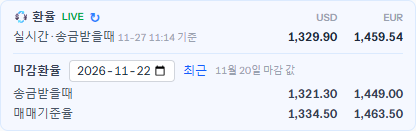
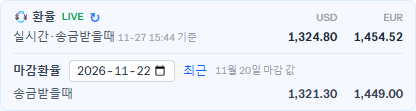
docs(guide): 환율 — 송금받을때 기준(매매기준율 줄 없음)·구매확정 환율 칸 자동 기입(그림 3장) + 챗봇 카드

diff --git a/resources/guides/purchase-confirm/index.html b/resources/guides/purchase-confirm/index.html
@@ -1,7 +1,7 @@
 <!-- 구매확정 — 로컬 가이드 차 11가1001(김영업)로 실제로 확정해 로컬 ERP 에 차량이 생기기까지 찍었다(2026-11-13).
      딜러 서류는 「업무 가이드 예시」라고 적은 가짜 통장 사본·사업자등록증·명함 그림, 바이어는 로컬 ERP 의 「GUIDE SAMPLE TRADING」.
      금액·환율은 예시. 정보 찾기는 실제 GPU PC 가 읽은 결과다.
-     11-27 — 환율 상자(11·12번 그림). 마감환율 숫자는 로컬 예시 값이다. -->
+     11-27 — 환율 상자(11·12번 그림, 송금받을때 기준)·환율 칸 자동 기입(13번 그림). 마감환율 숫자는 로컬 예시 값이다. -->
 
 <p style="margin:0 0 14px;color:#4b5563;line-height:1.65">
     바이어가 수락한 차를 실제로 사는 단계입니다. 「경매/구매」에서 금액·바이어·딜러 서류·입금정보를 넣고 [구매확정 · ERP 전송]을 누르면 차가 ERP 재고로 넘어갑니다. 한 번에 다 못 채웠으면 [내용만 저장]으로 적은 것만 남겨 두고 나중에 이어서 합니다.
@@ -25,19 +25,25 @@
         <li>「매도비 (원)」 — 그 가운데 딜러 몫. 적으면 바로 아래 「최종 매입가」가 차값에서 매도비를 뺀 값으로 바뀝니다. 없으면 비워 둡니다.</li>
         <li>「총판매가」 — 바이어에게 받을 총액(운임 포함), 「견적 통화」 기준.</li>
         <li>「운임비 (USD)」 — 운임은 달러로 적습니다.</li>
-        <li>「환율 USD」「환율 EUR」 — 직접 적습니다. 화면 위 「환율」 상자의 값을 보고 넣고, 판매 통화가 유로면 EUR 칸도 채웁니다.</li>
+        <li>「환율 USD」「환율 EUR」 — 창을 열면 지금 환율(송금받을때)이 들어와 있습니다. 바이어와 합의한 환율이 다르면 고쳐 적습니다.</li>
     </ul>
     <p>「운임비 (자동)」과 「판매가 (자동)」은 계산돼 나옵니다(판매가 = 총판매가 − 운임비). 아래 「이상 총판매가」는 참고용입니다.</p>
     <img src="02.png" alt="금액 칸 — 차값, 매도비, 총판매가, 운임비, 환율과 자동 계산된 판매가" width="440">
+    <p><strong>환율 칸은 비어 있을 때만 자동으로 채워집니다.</strong> 칸 아래에 「오늘 환율(○○ 기준, 송금 받을 때)을 넣어 두었습니다」가 보이면 자동으로 들어간 값입니다. 숫자는 고칠 수 있고, [내용만 저장]이나 구매확정을 눌러야 저장됩니다.</p>
+    <img src="13.png" alt="환율 USD 1325, 환율 EUR 1455 가 들어와 있고 아래에 오늘 환율을 넣어 두었습니다 안내" width="408">
+    <ul>
+        <li>환율을 한 칸이라도 적어 둔 차는 바꾸지 않습니다.</li>
+        <li>이미 ERP 로 넘어간 차는 자동으로 바꾸지 않습니다. 고치려면 「매입예정」에서 그 차를 열어 「금액 다시 보내기」에 직접 적습니다.</li>
+    </ul>
     <p><strong>환율은 화면 위 「환율」 상자에서 봅니다.</strong> 「경매/구매」·「전달 대기」·「매입예정」 세 화면 제목 아래에 같은 상자가 있습니다. 값은 ERP 와 같습니다.</p>
     <ul>
         <li>「실시간 · 송금받을때」 — 지금 환율(USD·EUR)과 받은 시각. ↻ 를 누르면 다시 받습니다.</li>
-        <li>「마감환율」 — 날짜 칸에 적힌 날의 「송금받을때」와 「매매기준율」. 처음에는 가장 최근 마감일입니다.</li>
+        <li>「마감환율」 — 날짜 칸에 적힌 날의 「송금받을때」 환율. 처음에는 가장 최근 마감일입니다.</li>
     </ul>
-    <img src="11.png" alt="경매/구매 화면 위 환율 상자 — 실시간 송금받을때 USD·EUR, 마감환율 2026-11-26 송금받을때·매매기준율" width="720">
+    <img src="11.png" alt="경매/구매 화면 위 환율 상자 — 실시간 송금받을때 USD·EUR, 마감환율 2026-11-26 송금받을때" width="720">
     <p>지난 날짜의 마감환율을 보려면 날짜 칸을 눌러 고릅니다. 주말·공휴일을 고르면 직전 영업일 값이 나오고 옆에 「11월 20일 마감 값」처럼 실제 날짜가 보입니다. [최근]을 누르면 가장 최근 마감으로 돌아갑니다.</p>
     <img src="12.png" alt="환율 상자 — 마감환율 날짜 2026-11-22 를 골라 11월 20일 마감 값이 보이고 옆에 최근 버튼" width="415">
-    <p>오늘과 앞으로의 날짜는 고를 수 없습니다. 2026년 11월 17일 이전 날짜는 「매매기준율」이 「—」로 나올 수 있습니다. 「이 날짜의 마감환율을 받지 못했습니다」가 뜨면 ERP 에 그날 값이 없는 것입니다.</p>
+    <p>오늘과 앞으로의 날짜는 고를 수 없습니다. 「이 날짜의 마감환율을 받지 못했습니다」가 뜨면 ERP 에 그날 값이 없는 것입니다.</p>
 </div>
 
 <h2 class="gd-sec">② 바이어와 딜러 서류</h2>

diff --git a/resources/guides/buyer-forward/index.html b/resources/guides/buyer-forward/index.html
@@ -75,6 +75,6 @@
         <li>[적용]을 누르지 않고 보내면 견적이 반영되지 않습니다. 노란 「미적용」 칸이 보이면 먼저 [적용]을 누르세요.</li>
         <li>거절한 차를 다른 바이어에게 팔려면 지우고 다시 등록해야 합니다(「삭제와 재등록」 가이드). 같은 바이어와 값만 다시 맞출 때는 [재견적]을 씁니다.</li>
         <li>바이어 링크는 30일이 지나면 열리지 않습니다. 다시 보내려면 [바이어 링크 복사]를 다시 누르세요.</li>
-        <li>화면 위 「환율」 상자에 실시간 환율과 마감환율(송금받을때·매매기준율)이 보입니다. 날짜 칸을 누르면 지난 날짜의 마감환율도 봅니다(「구매확정」 가이드 2단계).</li>
+        <li>화면 위 「환율」 상자에 실시간 환율과 마감환율(송금받을때 기준)이 보입니다. 날짜 칸을 누르면 지난 날짜의 마감환율도 봅니다(「구매확정」 가이드 2단계).</li>
     </ul>
 </div>

diff --git a/resources/guides/listing-register/index.html b/resources/guides/listing-register/index.html
@@ -50,6 +50,6 @@
         <li>직접 검차한 차는 출처를 「셀프검차매입」으로 고릅니다. 검차 단계를 건너뛰고 바로 「경매/구매」로 갑니다(「셀프검차매입」 가이드).</li>
         <li>차량번호와 차대번호는 저장한 뒤에는 고칠 수 없습니다. 잘못 적었으면 지우고 다시 올립니다(「삭제와 재등록」 가이드).</li>
         <li>목록의 차 줄을 누르면 오른쪽 창에서 나중에 내용을 고칠 수 있습니다.</li>
-        <li>화면 위 「환율」 상자에 실시간 환율과 마감환율(송금받을때·매매기준율)이 보입니다. 날짜 칸을 누르면 지난 날짜의 마감환율도 봅니다(「구매확정」 가이드 2단계).</li>
+        <li>화면 위 「환율」 상자에 실시간 환율과 마감환율(송금받을때 기준)이 보입니다. 날짜 칸을 누르면 지난 날짜의 마감환율도 봅니다(「구매확정」 가이드 2단계).</li>
     </ul>
 </div>

diff --git a/config/guides.php b/config/guides.php
@@ -62,7 +62,7 @@ return [
         'inspection-wait' => ['purchase', '검차 기다리기', '검차상태를 읽고 긴급 검차·재검차를 요청하거나 사진만으로 전달 대기로 넘깁니다', ['영업'], '검차상태 긴급 검차 요청 보류 재검차 전달대기'],
         'inspection-visit' => ['purchase', '현지확인 검차 (ssancar.com)', '검차원과 팀장이 검차앱에서 배정·방문·사진 영상 올리기·완료까지 하는 순서입니다', ['영업', '관리', '검차원', '검차 팀장'], '오늘 내 할 차 검차 시작 등록하기 패스 보류 경로 확정 배정'],   // 독자 = 모두(신규 검차원·신규 영업 — Jin 11-13)
         'buyer-forward' => ['purchase', '바이어 전달과 회신', '전달 대기에서 견적을 넣어 바이어에게 보내고 수락·거절을 처리합니다', ['영업'], '전달 대기 바이어 회신 견적 통화 수락 거절'],
-        'purchase-confirm' => ['purchase', '구매확정', '금액과 사진·서류를 넣고 바이어를 골라 확정하면 ERP 재고로 넘어갑니다', ['영업'], '경매 구매 차값 매도비 총판매가 운임비 환율 실시간 마감환율 매매기준율 송금받을때 지난 날짜 이미지에서 정보 찾기 계좌 매입처'],
+        'purchase-confirm' => ['purchase', '구매확정', '금액과 사진·서류를 넣고 바이어를 골라 확정하면 ERP 재고로 넘어갑니다', ['영업'], '경매 구매 차값 매도비 총판매가 운임비 환율 실시간 마감환율 송금받을때 지난 날짜 환율 자동 기입 이미지에서 정보 찾기 계좌 매입처'],
         'self-inspection' => ['purchase', '셀프검차매입', '직접 검차한 차는 등록하자마자 구매 단계로 갑니다', ['영업'], '셀프검차 직접 검차'],
         'stock-purchase' => ['purchase', '재고매입 (바이어 미정)', '바이어 없이 먼저 사두고, 바이어가 정해지면 매입예정에서 바이어·판매 금액을 보냅니다', ['영업'], '재고매입 바이어 미정 지급대기 바이어 지정 선적전'],
         'erp-resend' => ['purchase', 'ERP 로 넘어간 뒤 고치기', '금액을 다시 보내거나 사진·서류를 나중에 추가합니다', ['영업', '관리'], '금액 다시 보내기 사진 서류 추가 재전송'],
